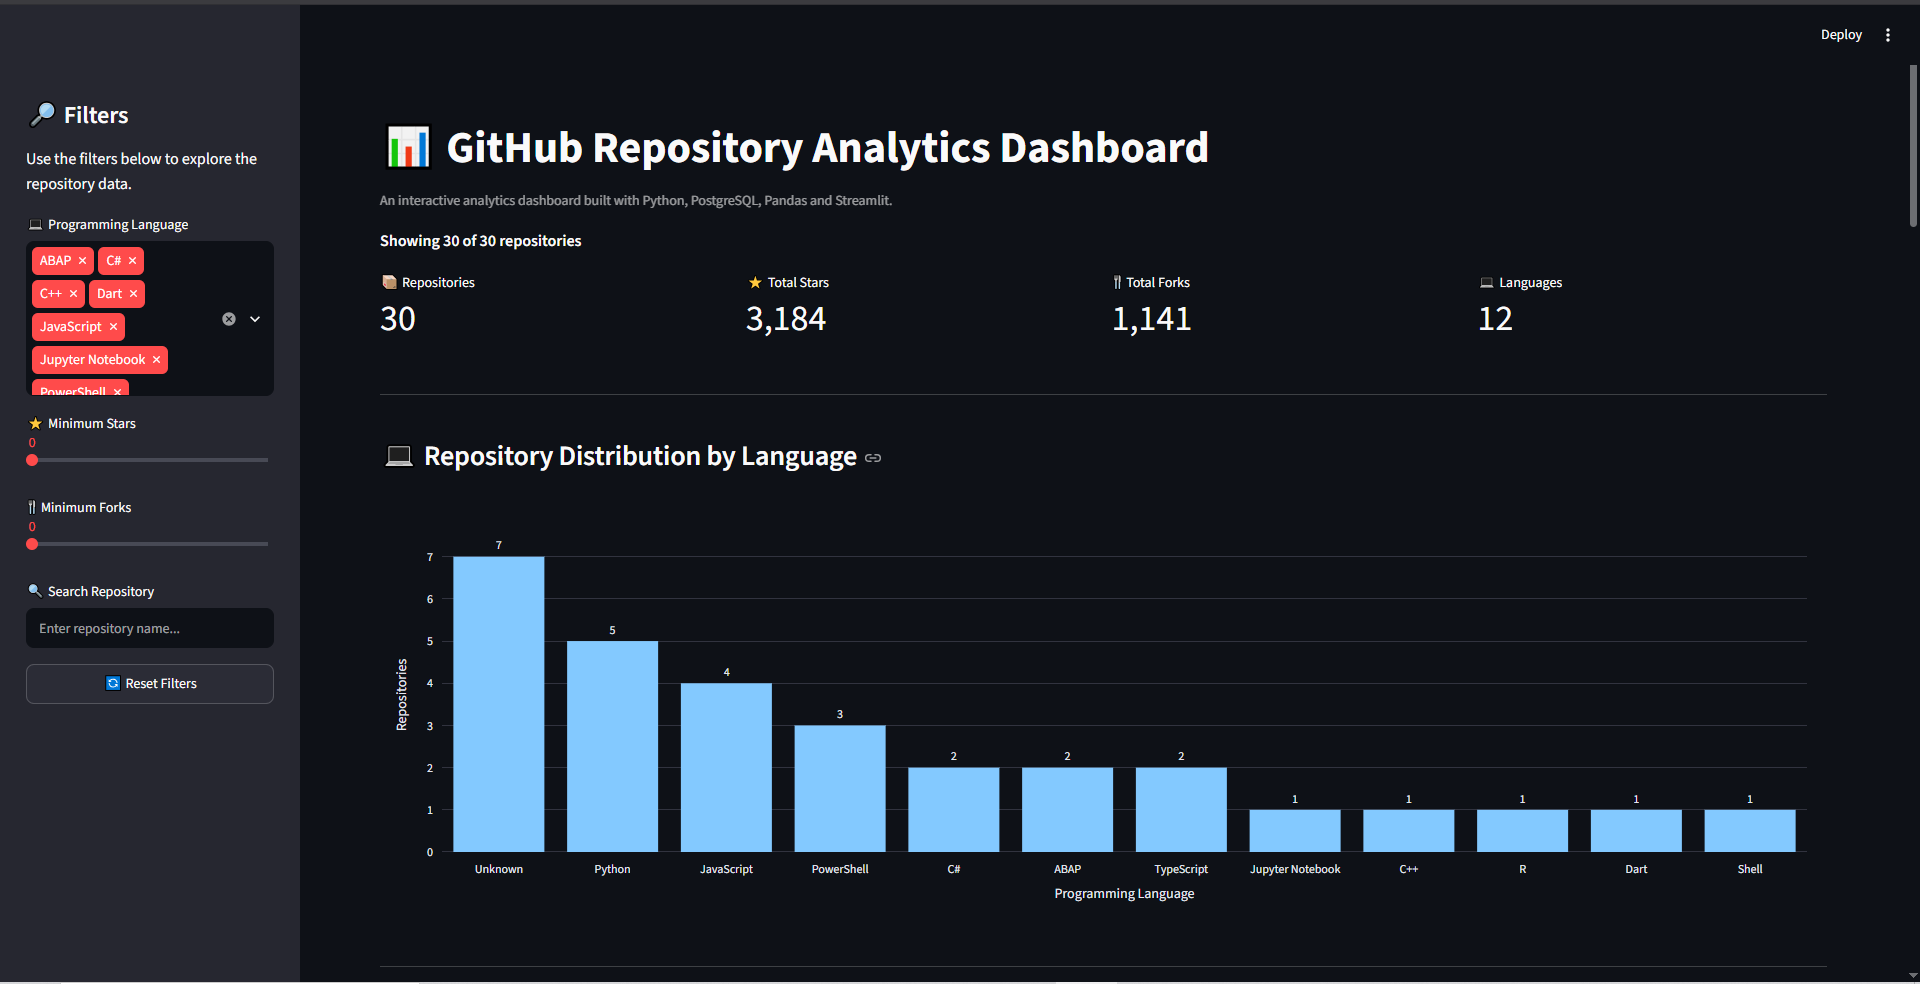
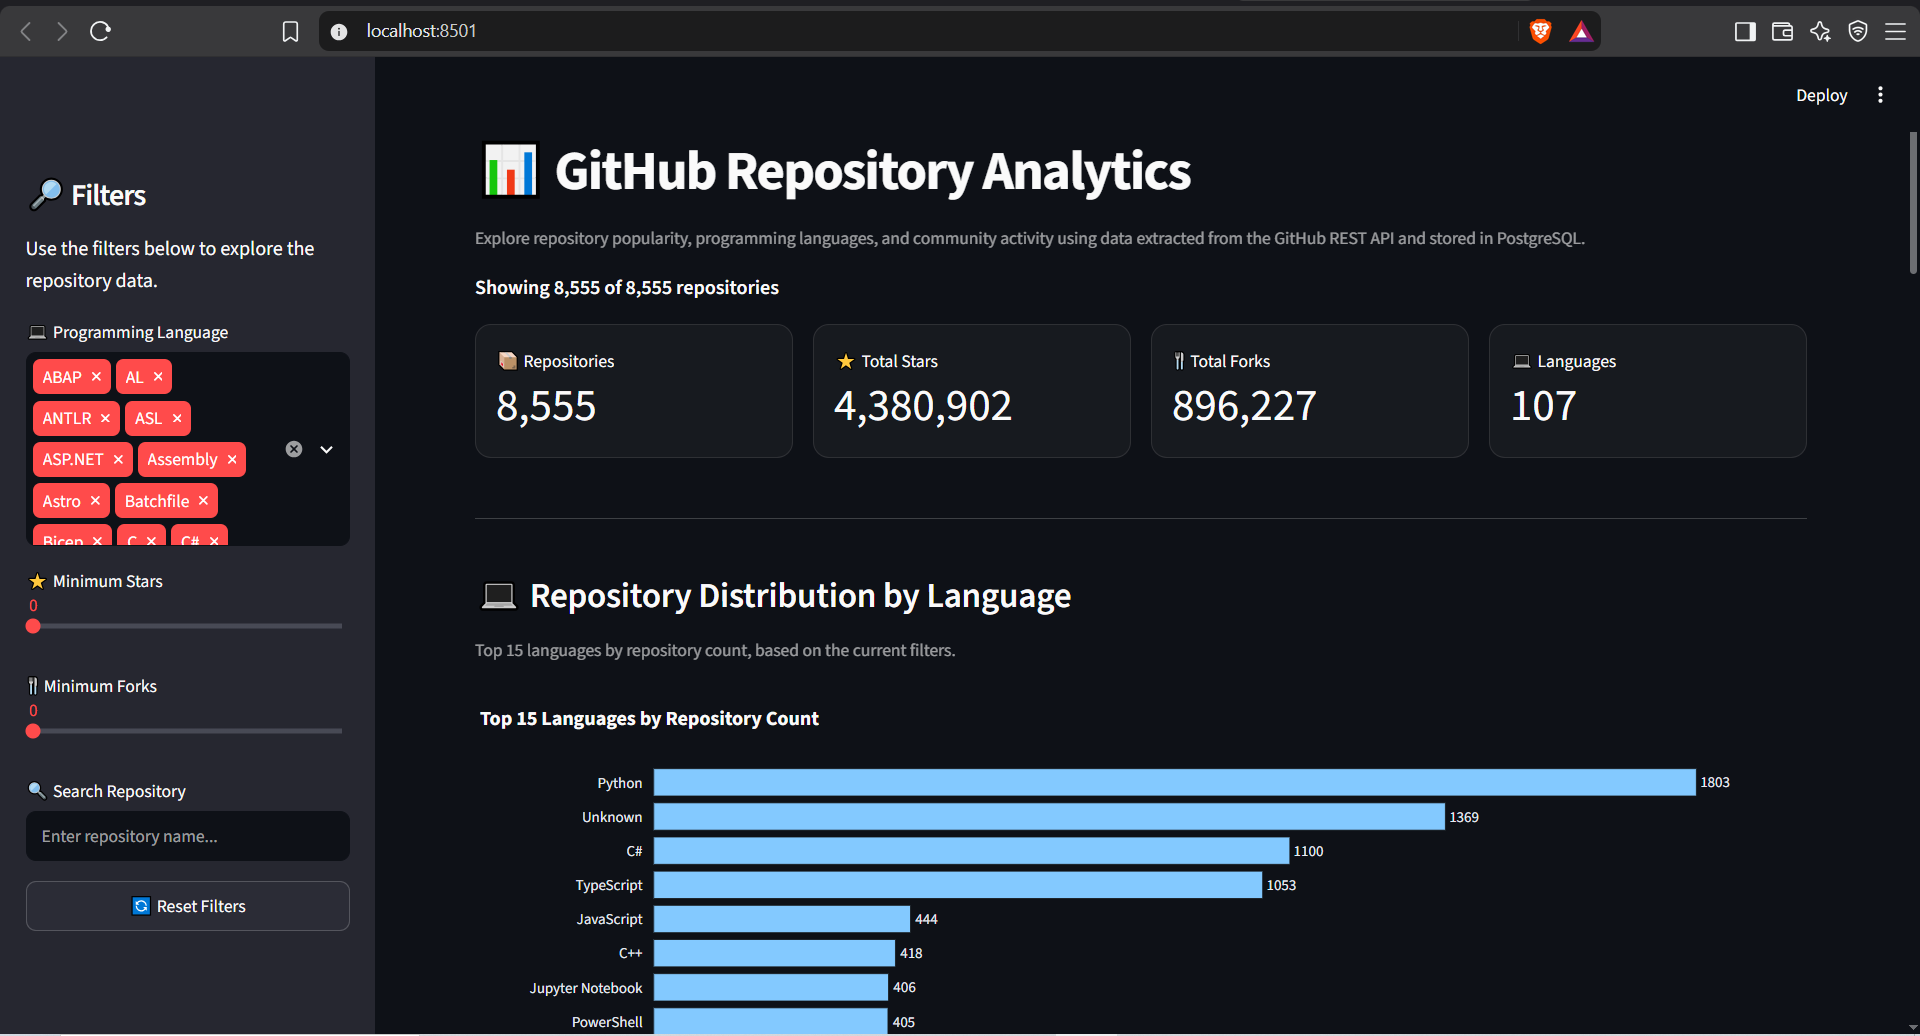
Add Airflow DAG and Streamlit dashboard screenshots to README

diff --git a/README.md b/README.md
@@ -48,6 +48,17 @@ flowchart LR
     PENDING -.->|"Atomic os.replace()"| COMMITTED
     DIM_R & DIM_L & FACT --> DASH
 ```
+---
+
+## Pipeline & Dashboard Preview
+
+### Apache Airflow 3 Orchestration (7-Task DAG)
+![Airflow 7-Task DAG](docs/screenshots/airflow-dag-graph.png)
+
+### Streamlit Analytics Dashboard
+![Dashboard Overview](docs/screenshots/dashboard-overview.png)
+![Repository Analysis](docs/screenshots/repository-analysis.png)
+![Repository Tables](docs/screenshots/repository-tables.png)
 
 ---
 
